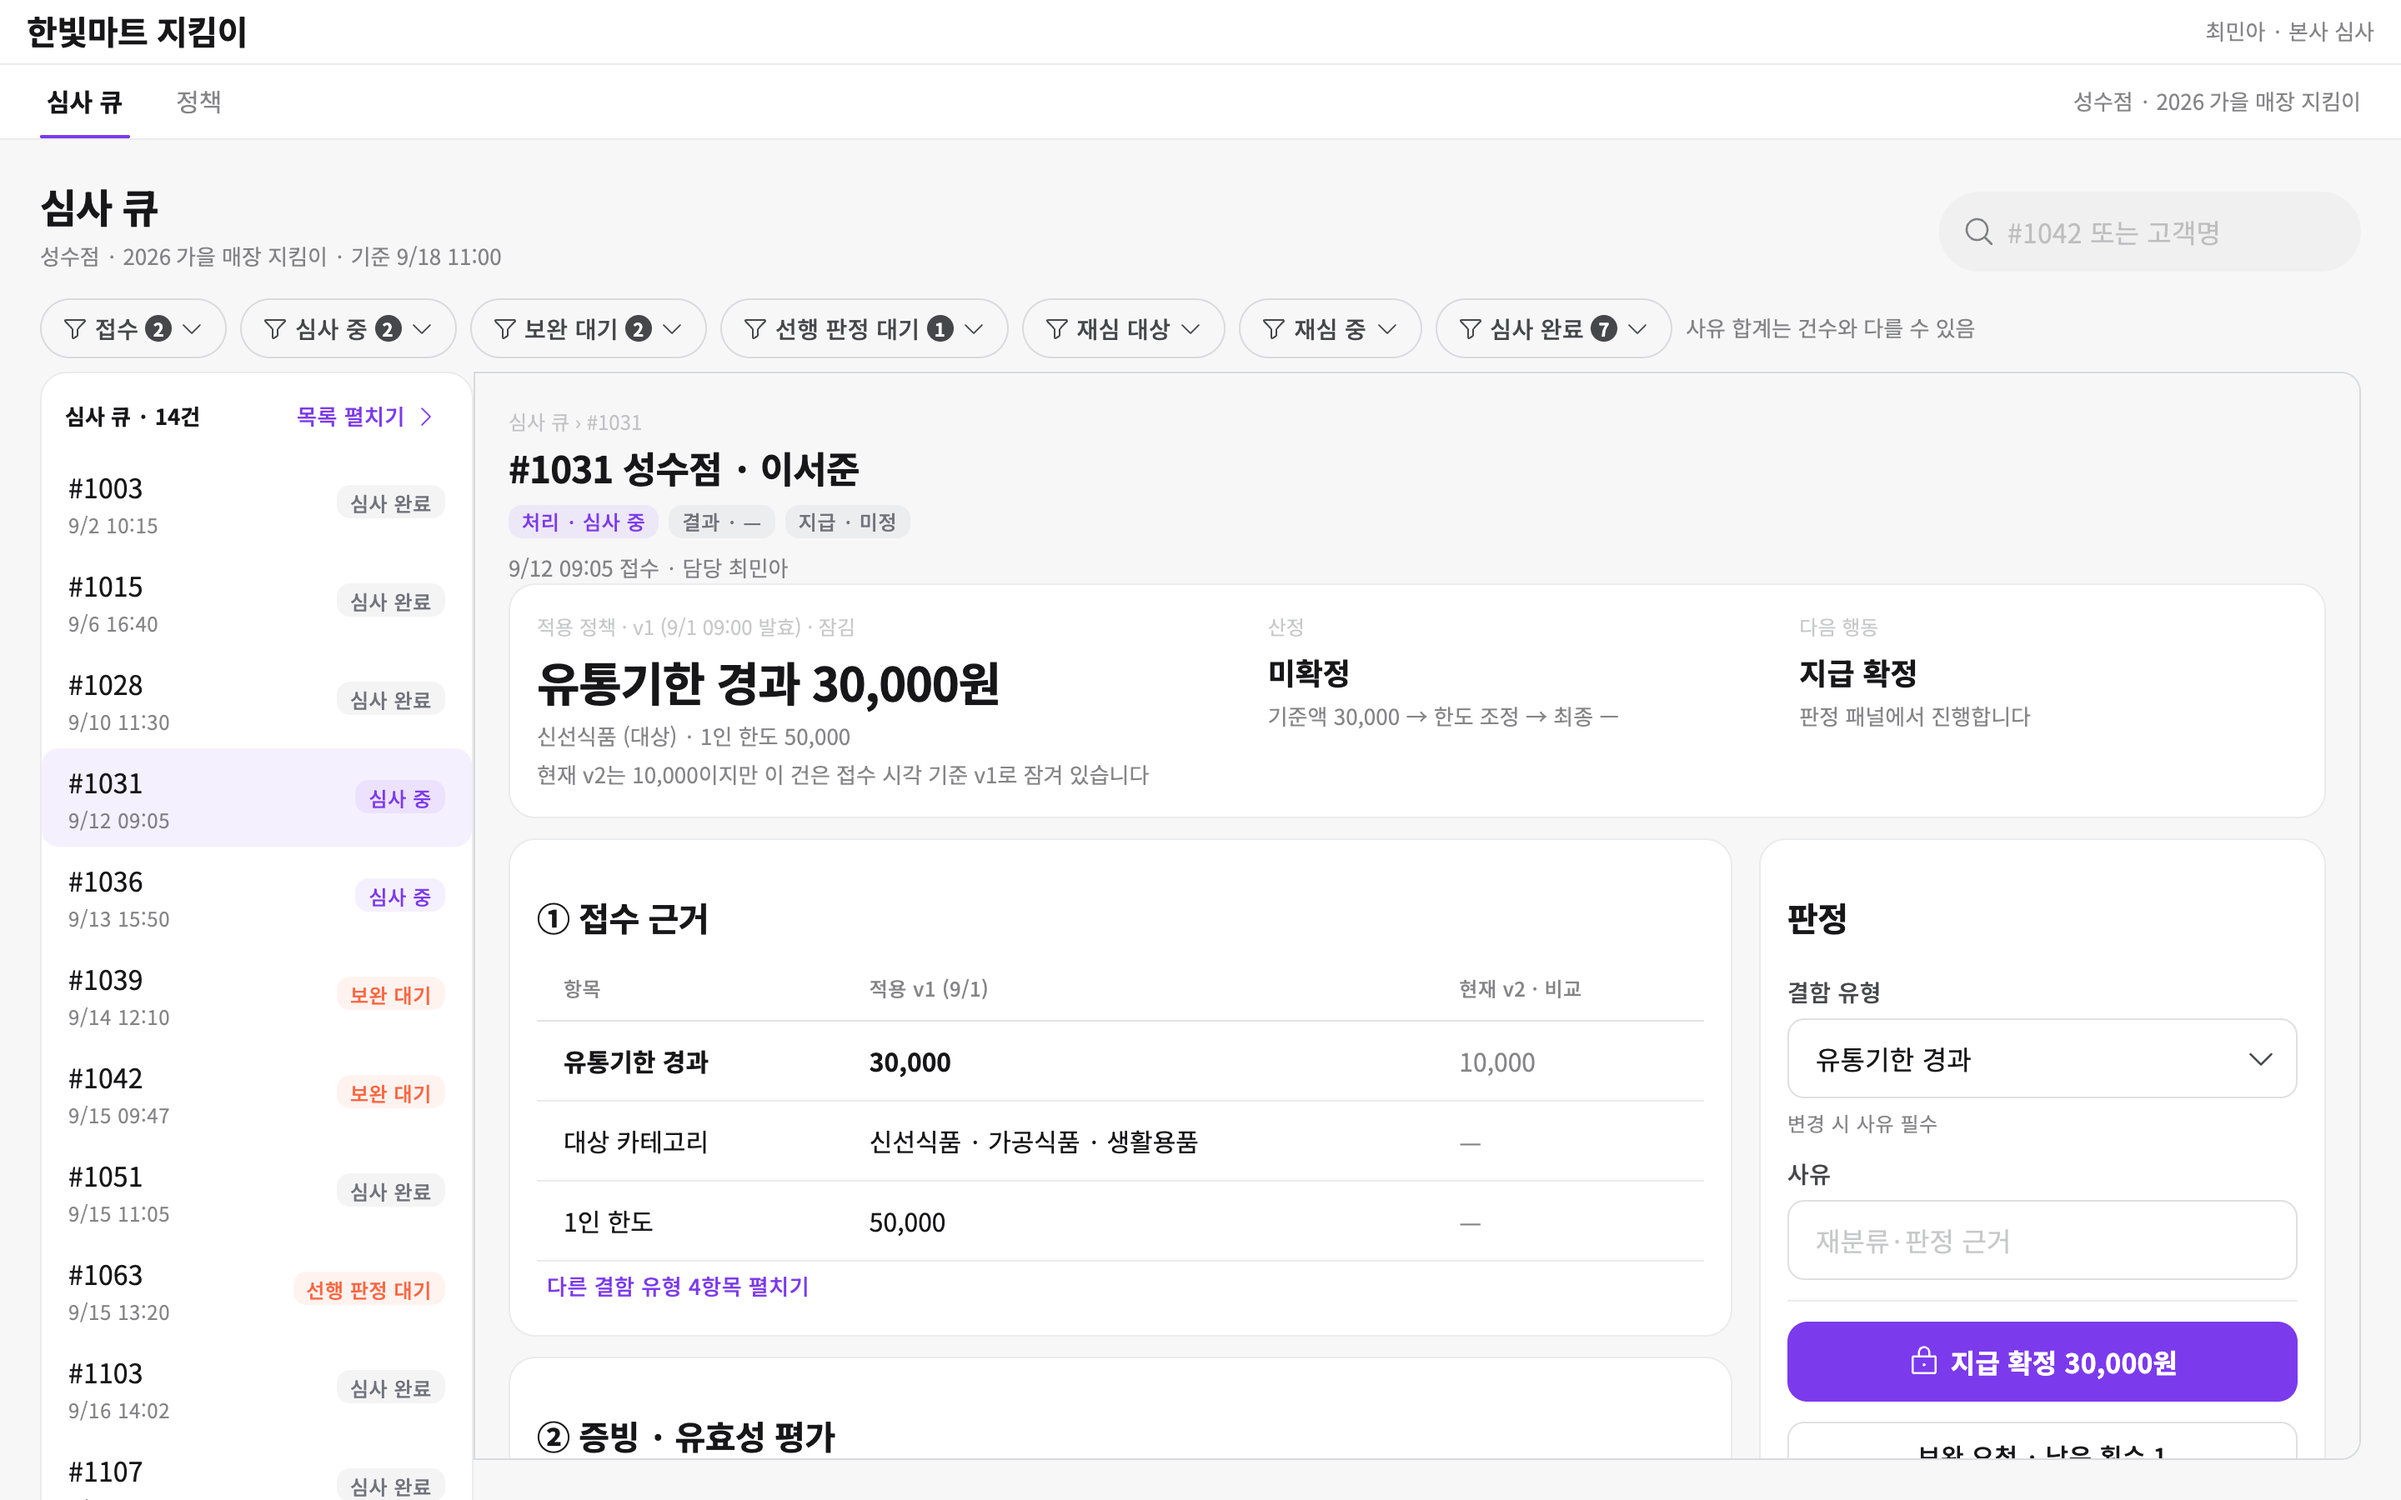
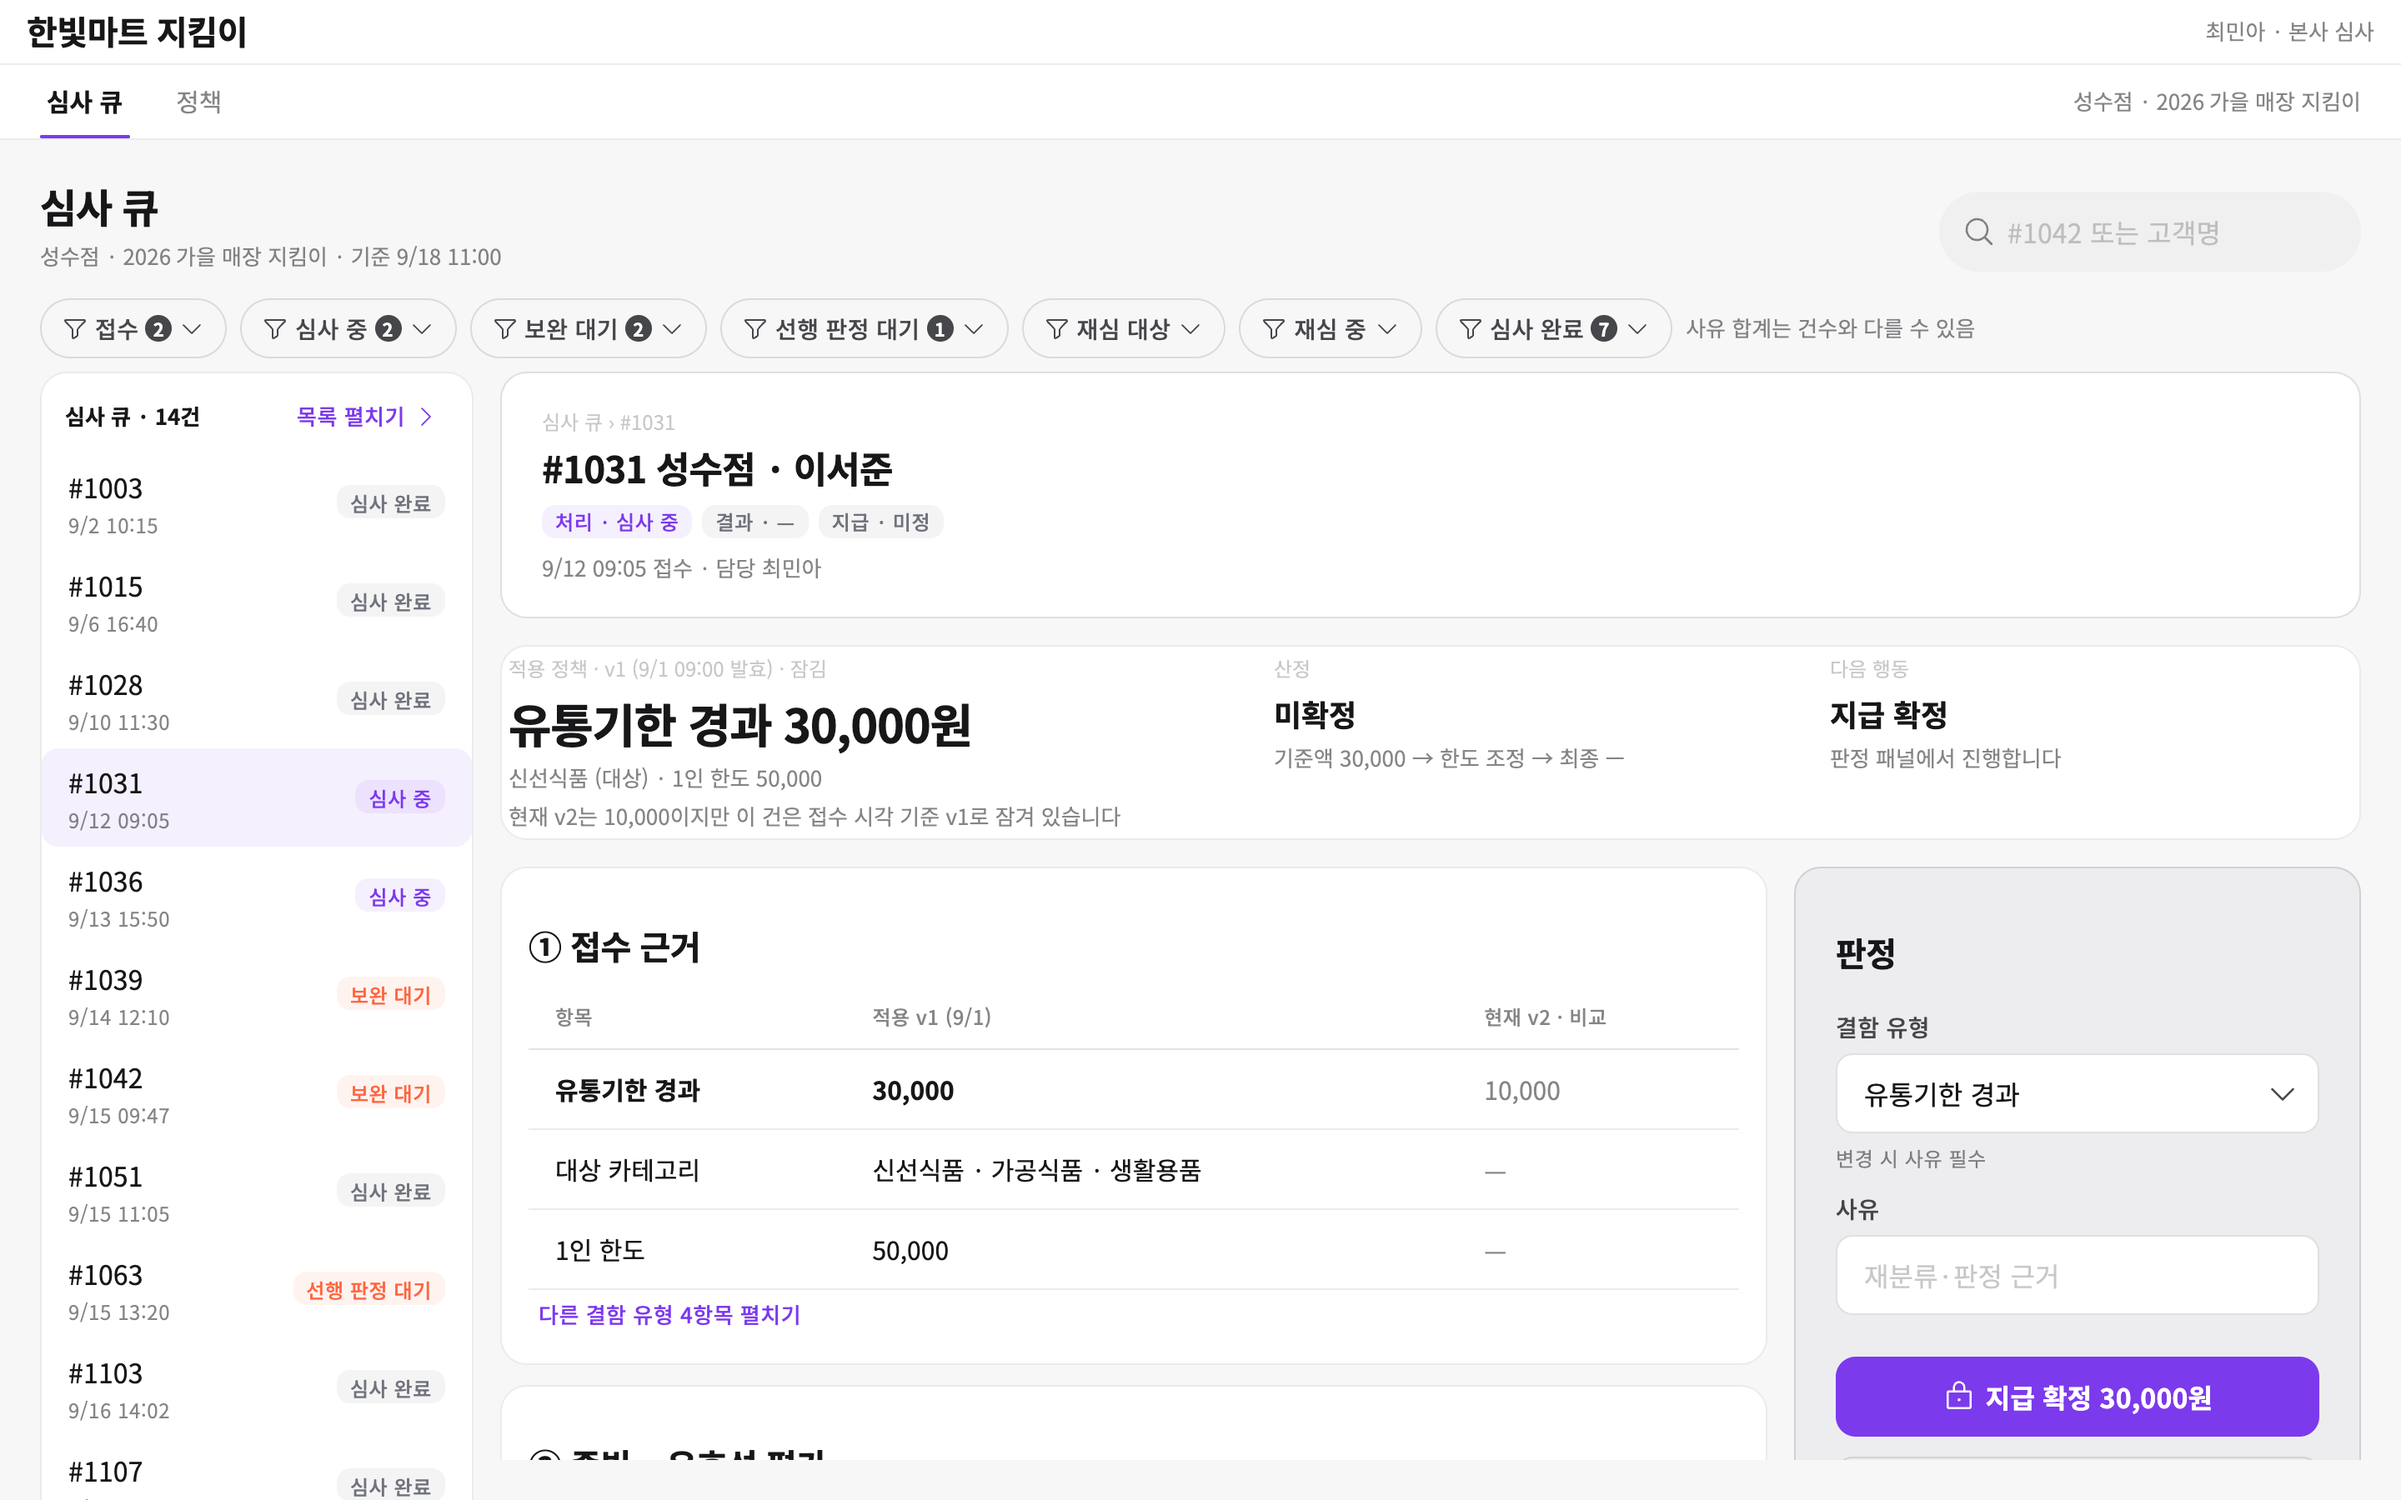
feat(app): 상세 화면 영역 구분 — 면 위계 + 16 여백 리듬
시안 셋(선·면·세 칸)을 실물 위에서 비교해 면 위계를 골랐고, 요청대로
다듬었다. 전에는 오른쪽 정보 면이 셸과 같은 회색이라 면으로 읽히지
않았고, 요약·절·판정이 전부 같은 흰 카드라 위계가 없었다.

- 오른쪽은 면이 아니라 캔버스로 두고, 그 위에 흰 덩이가 뜬다 —
  상단 정보 · 적용 정책 · 절 카드
- 적용 정책은 한 덩이로 묶었다(흰 면 하나 안에 세 항목)
- 판정 열만 fill-normal로 한 단계 눌렀다. 정보가 아니라 할 일이라는 표시
- 여백을 16으로 통일 — 목록↔상단정보 16, 상단정보↔적용정책 16,
  적용정책↔본문 16, 차단 배너도 같은 리듬
- 모서리를 Iris Card와 같은 lg(16)로 통일. 내가 준 md(12)와 섞여 있었다

임시 시안 코드(_dv.css, data-dv 스위치)는 지웠다.
상세가 바뀌어 갤러리 아홉 장을 2배 무손실 WebP로 다시 찍었다(638KB).

검증: 차단·완료·중복·정책·큐 다섯 상태에서 가로 넘침 0·겹침 0,
간격 16 균일·좌우 정렬 일치 실측, 대비 AA 미달 0, 어절 절단 0,
크게 보기 여섯 경로 유지, 콘솔 에러 0, 테스트 13개 통과.

diff --git a/app/src/app.css b/app/src/app.css
@@ -86,7 +86,8 @@ main { padding: var(--iris-space-24); }
   .summary { grid-template-columns: 1fr; }
 }
 
-.alert-wrap { margin: var(--iris-space-12) 0; }
+/* 차단 배너도 같은 16 리듬 위에 앉는다 */
+.alert-wrap { margin: var(--iris-space-16) 0 0; }
 
 .policy > button { justify-self: start; }
 /* 판정 패널의 버튼은 입력 컨트롤과 같은 폭으로 — 세로로 훑을 때 모서리가 한 줄로 맞는다 */
@@ -129,7 +130,7 @@ main { padding: var(--iris-space-24); }
 
 /* ── 3안 · 접히는 목록 레일 ── */
 .list.full { padding: 0; }
-.workspace { grid-template-columns: 260px minmax(0, 1fr); gap: 0; }
+.workspace { grid-template-columns: 260px minmax(0, 1fr); gap: var(--iris-space-16); }
 .queue-rail > [class*="iris-body-"] { padding: 0; }
 .queue-rail-head { display: flex; align-items: center; justify-content: space-between; gap: var(--iris-space-8); padding: var(--iris-space-12) var(--iris-space-14) var(--iris-space-8); }
 .queue-rail-head b { font-size: var(--iris-font-size-label-2); }
@@ -140,10 +141,32 @@ main { padding: var(--iris-space-24); }
 
 
 
-.preview { border-radius: 0 var(--iris-radius-md) var(--iris-radius-md) 0; }
+/* 오른쪽은 면이 아니라 캔버스다 — 그 위에 흰 덩이(상단 정보 · 적용 정책 · 절 · 판정)가 뜬다 */
+.preview { background: transparent; border: 0; border-radius: 0; padding: 0; }
+
+/* 상단 정보 — 하나의 흰 덩이 */
+.detail-head {
+  background: var(--iris-semantic-background-normal-normal);
+  border: 1px solid var(--iris-semantic-line-normal-normal);
+  border-radius: var(--iris-radius-lg);
+  padding: var(--iris-space-20) var(--iris-space-24);
+}
+/* 적용 정책 — 좌우로 갈라 보이지 않게 한 덩이로 묶는다 */
+.summary { margin-top: var(--iris-space-16); }
+.summary > [class*="iris-body-"] { padding: var(--iris-space-4) var(--iris-space-4); }
+
+/* 행동 열만 한 단계 눌러 앉힌다 — 정보가 아니라 할 일이라는 표시 */
+.panel-col {
+  background: var(--iris-semantic-fill-normal);
+  border: 1px solid var(--iris-semantic-line-normal-normal);
+  border-radius: var(--iris-radius-lg);
+  overflow: hidden;
+}
+.panel { border: 0 !important; border-radius: 0 !important; background: transparent !important; }
+.panel > [class*="iris-body-"] { padding: var(--iris-space-20) var(--iris-space-24); }
 
 /* 판정 패널을 본문 오른쪽 고정 열로 */
-.detail-body { display: grid; grid-template-columns: minmax(0, 1fr) 340px; gap: var(--iris-space-16); align-items: stretch; margin-top: var(--iris-space-12); }
+.detail-body { display: grid; grid-template-columns: minmax(0, 1fr) 340px; gap: var(--iris-space-16); align-items: stretch; margin-top: var(--iris-space-16); }
 .detail-main { min-width: 0; }
 /* 패널이 스크롤을 따라오려면 감싸는 열이 행 높이만큼 늘어나 있어야 한다 */
 .panel-col { position: relative; }
